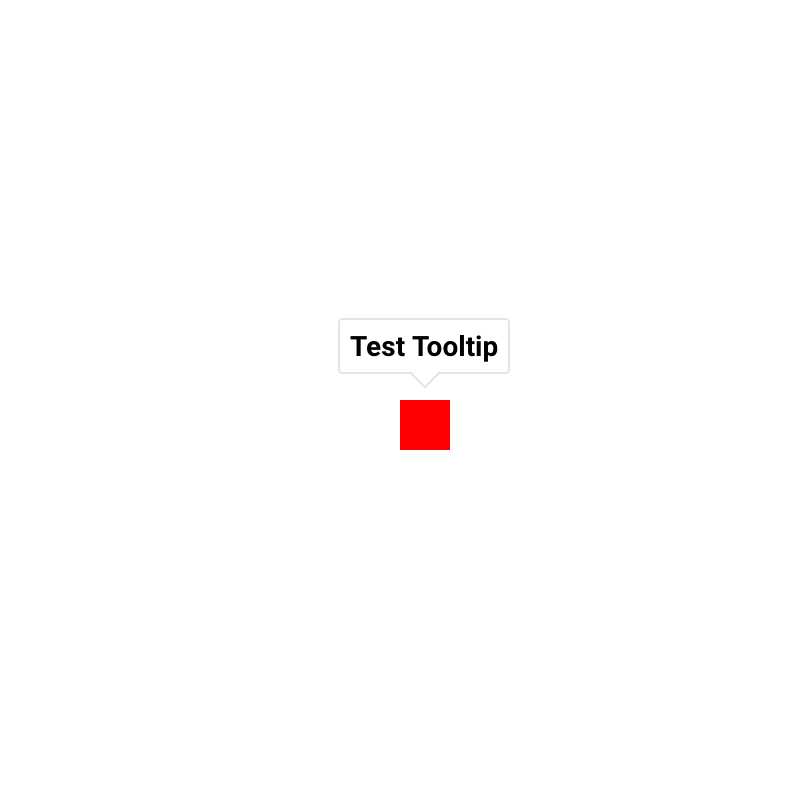
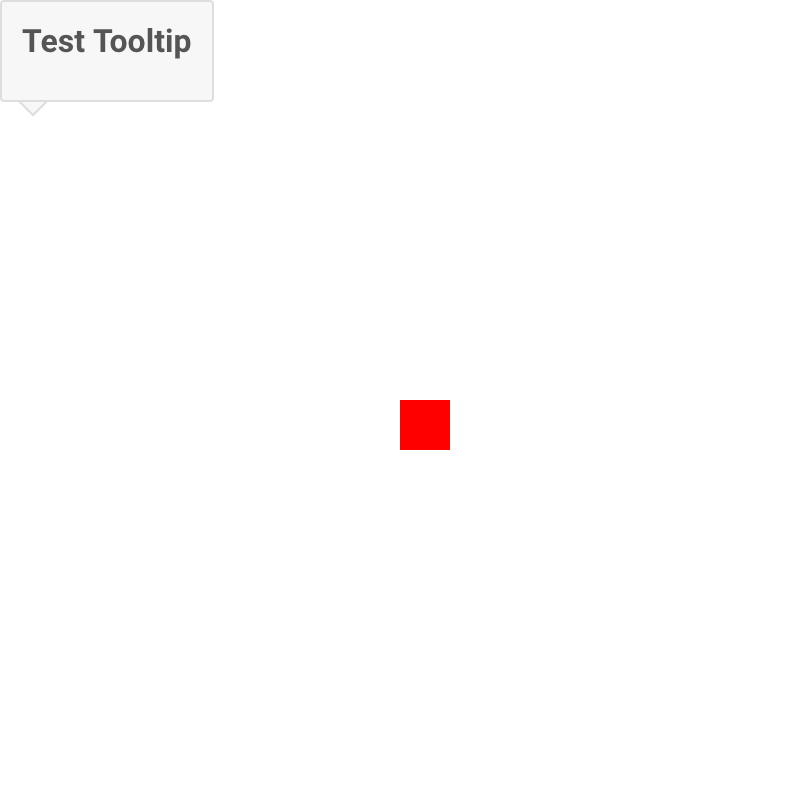
d3plus-tooltip examples

diff --git a/_examples/d3plus-tooltip/positioned-to-element/embed.html b/_examples/d3plus-tooltip/positioned-to-element/embed.html
@@ -6,7 +6,7 @@
     <meta charset="utf-8">
     <title>Tooltip Anchored to an HTML Element | D3plus</title>
 
-    <script src="https://d3plus.org/js/d3plus-tooltip.v0.4.full.min.js"></script>
+    <script src="https://d3plus.org/js/d3plus-tooltip.v1.0.full.min.js"></script>
 
     <style>
 

diff --git a/_examples/d3plus-tooltip/following-mouse/embed.html b/_examples/d3plus-tooltip/following-mouse/embed.html
@@ -6,7 +6,7 @@
     <meta charset="utf-8">
     <title>Tooltip Following Mouse | D3plus</title>
 
-    <script src="https://d3plus.org/js/d3plus-tooltip.v0.4.full.min.js"></script>
+    <script src="https://d3plus.org/js/d3plus-tooltip.v1.0.full.min.js"></script>
 
     <style>
 

diff --git a/_examples/d3plus-tooltip/getting-started/embed.html b/_examples/d3plus-tooltip/getting-started/embed.html
@@ -6,7 +6,7 @@
     <meta charset="utf-8">
     <title>Getting Started | D3plus</title>
 
-    <script src="https://d3plus.org/js/d3plus-tooltip.v0.4.full.min.js"></script>
+    <script src="https://d3plus.org/js/d3plus-tooltip.v1.0.full.min.js"></script>
 
     <style>
 

diff --git a/_examples/d3plus-tooltip/positioned-to-element/index.md b/_examples/d3plus-tooltip/positioned-to-element/index.md
@@ -2,8 +2,8 @@
 title: Tooltip Anchored to an HTML Element
 width: 400
 height: 400
-time: 1594760480618
-date: July 14, 2020
+time: 1612298800181
+date: February 02, 2021
 ---
 
 [width]: 400

diff --git a/_examples/d3plus-tooltip/following-mouse/index.md b/_examples/d3plus-tooltip/following-mouse/index.md
@@ -2,8 +2,8 @@
 title: Tooltip Following Mouse
 width: 400
 height: 400
-time: 1594760480618
-date: July 14, 2020
+time: 1612298800181
+date: February 02, 2021
 ---
 
 [width]: 400

diff --git a/_examples/d3plus-tooltip/getting-started/index.md b/_examples/d3plus-tooltip/getting-started/index.md
@@ -2,8 +2,8 @@
 title: Getting Started
 width: 205
 height: 135
-time: 1594760480618
-date: July 14, 2020
+time: 1612298800181
+date: February 02, 2021
 ---
 
 [width]: 205
